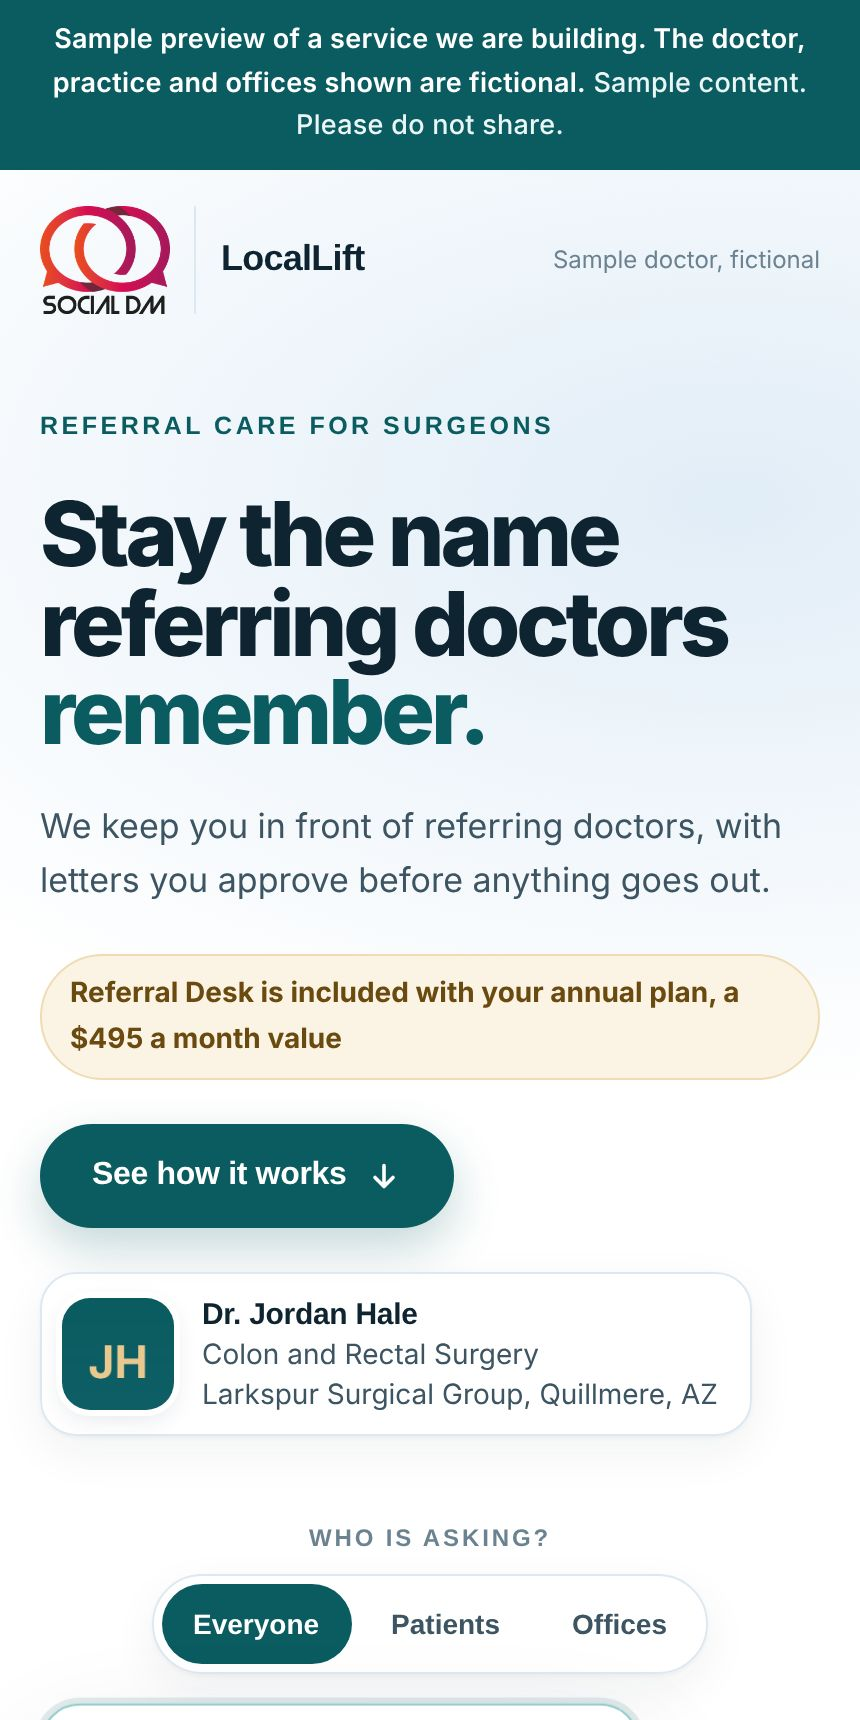
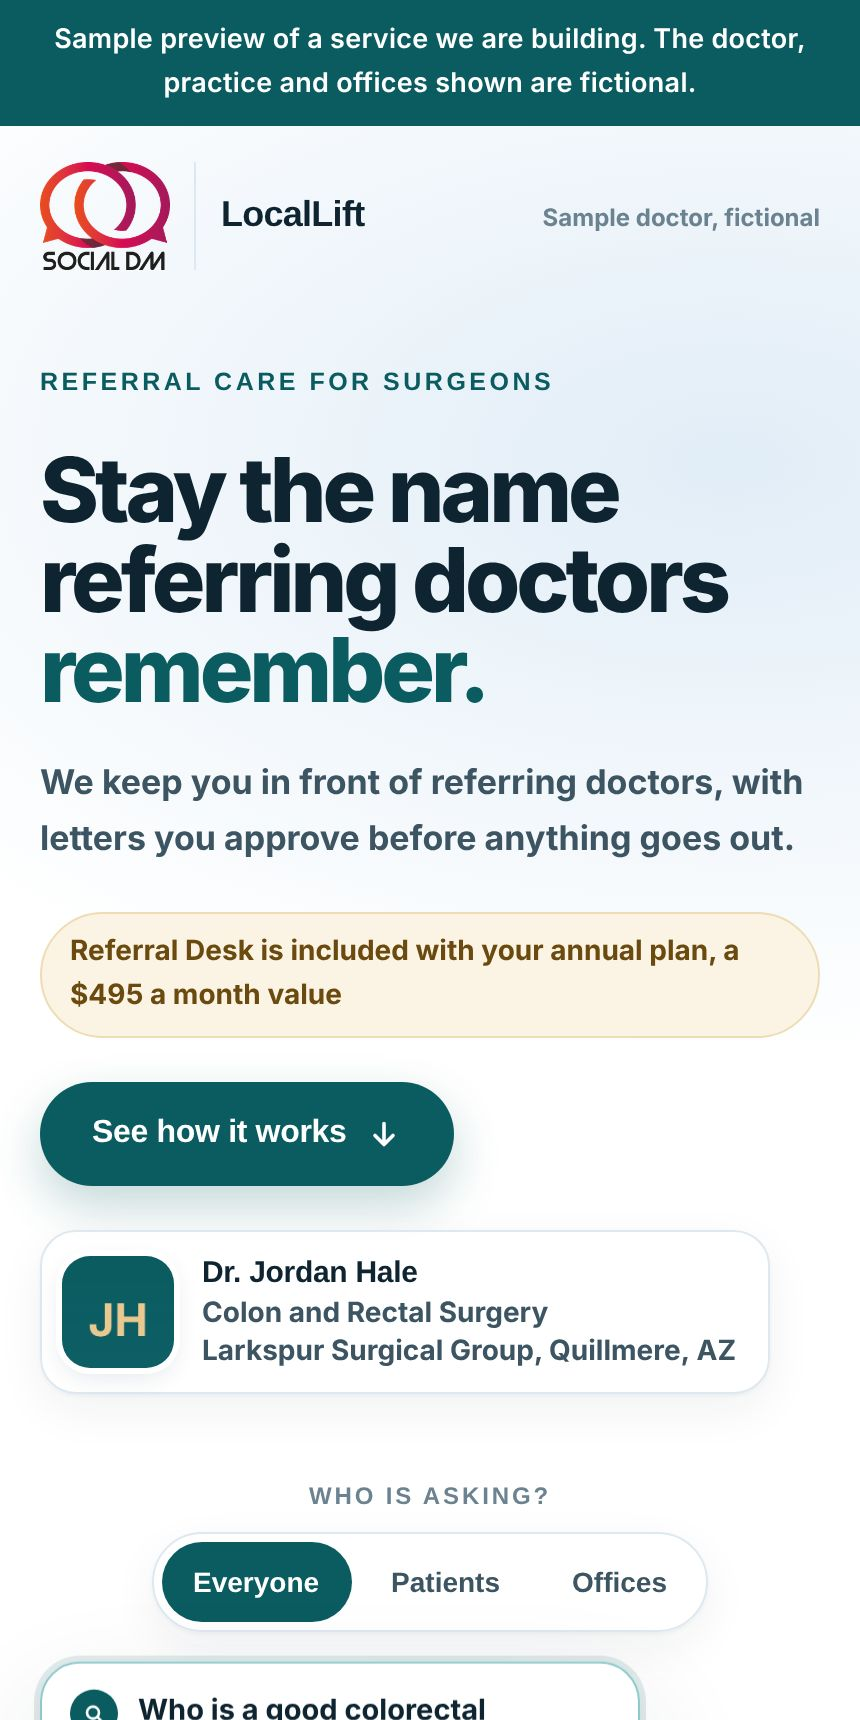
Natalie page: CRM tile uses always open sample, add The SocialDM tile
Claude-Session: https://claude.ai/code/session_01APSB1jhSmqKQoKkQ5fg3jc

Changed region(s): [[0.0302, 0.2157, 0.9674, 0.832], [0.0, 0.0308, 1.0, 0.1849], [0.0302, 0.8628, 0.786, 1.0]]

diff --git a/review/natalie-partner-n8f3/index.html b/review/natalie-partner-n8f3/index.html
@@ -259,20 +259,20 @@ footer img{height:56px;width:auto;margin:0 auto 12px}
       <div class="shot"><img src="images/shot-seeit.jpg" alt="See it work page" width="860" height="1720" loading="lazy"></div>
       <div class="tx"><span class="k">Follow up page</span><h3>See it work</h3><p>Where AI names him, his real street map, call tracking, samples and plans.</p><span class="go">Open it</span></div>
     </a>
-    <a class="tile rv zl" href="https://thesocialdm.github.io/locallift-pulses/review/zhubi-preview-k7m2/" target="_blank" rel="noopener">
-      <div class="shot"><img src="images/shot-crm.jpg" alt="Referral Desk CRM page" width="860" height="1720" loading="lazy"></div>
-      <div class="tx"><span class="k">The CRM page</span><h3>Referral Desk</h3><p>We do the job a CRM is supposed to do, without the office running one.</p><span class="go">Open it</span></div>
+    <a class="tile rv" href="https://thesocialdm.github.io/locallift-pulses/review/physician-desk-p5x8/" target="_blank" rel="noopener">
+      <div class="shot"><img src="images/shot-physician.jpg" alt="Referral Desk CRM page, sample practice" width="860" height="1720" loading="lazy"></div>
+      <div class="tx"><span class="k">Always open</span><h3>Referral Desk</h3><p>We do the job a CRM is supposed to do, without the office running one. A sample practice, safe to show any doctor.</p><span class="go">Open it</span></div>
     </a>
     <a class="tile rv zl" href="https://thesocialdm.github.io/locallift-pulses/review/zhubi-roadmap-k7m2/" target="_blank" rel="noopener">
       <div class="shot"><img src="images/shot-roadmap.jpg" alt="12 month roadmap page" width="860" height="1720" loading="lazy"></div>
       <div class="tx"><span class="k">The plan</span><h3>12 month roadmap</h3><p>What we deliver, what we track, and what good looks like at every checkpoint.</p><span class="go">Open it</span></div>
     </a>
-    <a class="tile rv" href="https://thesocialdm.github.io/locallift-pulses/review/physician-desk-p5x8/" target="_blank" rel="noopener">
-      <div class="shot"><img src="images/shot-physician.jpg" alt="Referral Desk sample for a fictional practice" width="860" height="1720" loading="lazy"></div>
-      <div class="tx"><span class="k">Always open</span><h3>Your doctor sample</h3><p>The full Referral Desk for a fictional practice. Safe to walk any doctor through.</p><span class="go">Open it</span></div>
+    <a class="tile rv" href="https://www.thesocialdm.com/" target="_blank" rel="noopener">
+      <div class="shot"><img src="images/shot-socialdm.jpg" alt="The SocialDM website with real reels" width="860" height="1720" loading="lazy"></div>
+      <div class="tx"><span class="k">Also from us</span><h3>The SocialDM</h3><p>Reels, posts and social media done for them. One more thing every doctor and business you know can use.</p><span class="go">Open it</span></div>
     </a>
   </div>
-  <p class="keep rv" id="keepNote">The first three are a real doctor's private pages, shared so you can see the work. Please keep them to yourself. They close after November 20. The doctor sample stays open for you to show anyone.</p>
+  <p class="keep rv" id="keepNote">See it work and the roadmap are a real doctor's private pages, shared so you can see the work. Please keep them to yourself. They close after November 20. The Referral Desk sample stays open for you to show anyone.</p>
 </div></section>
 
 <section style="padding-top:0"><div class="wrap">
@@ -463,7 +463,7 @@ footer img{height:56px;width:auto;margin:0 auto 12px}
   /* the surgeon's sample pages close after Nov 20 Phoenix time */
   if(Date.now()>=Date.UTC(2026,10,21,7,0,0)){
     document.querySelectorAll('.zl').forEach(function(a){a.classList.add('closed');a.removeAttribute('href');var g=a.querySelector('.go');if(g)g.textContent='Closed. Ask Michael Shad for a walkthrough';});
-    var k=document.getElementById('keepNote');if(k)k.textContent='The surgeon’s private pages have closed. The doctor sample stays open for you to show anyone.';
+    var k=document.getElementById('keepNote');if(k)k.textContent='The surgeon’s private pages have closed. The Referral Desk sample stays open for you to show anyone.';
   }
   var els=document.querySelectorAll('.rv');
   if('IntersectionObserver' in window){var io=new IntersectionObserver(function(es){es.forEach(function(e){if(e.isIntersecting){e.target.classList.add('in');io.unobserve(e.target);}})},{threshold:.12});els.forEach(function(e){io.observe(e)});}
